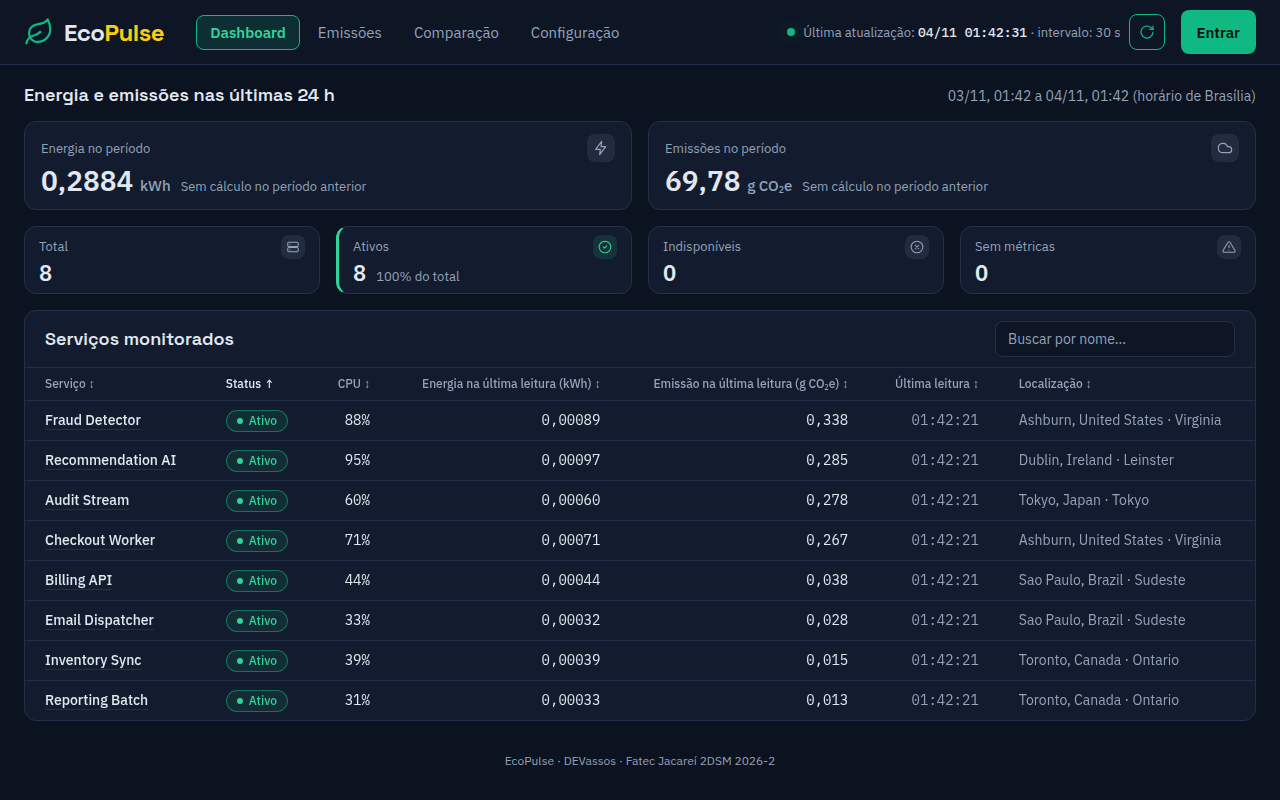
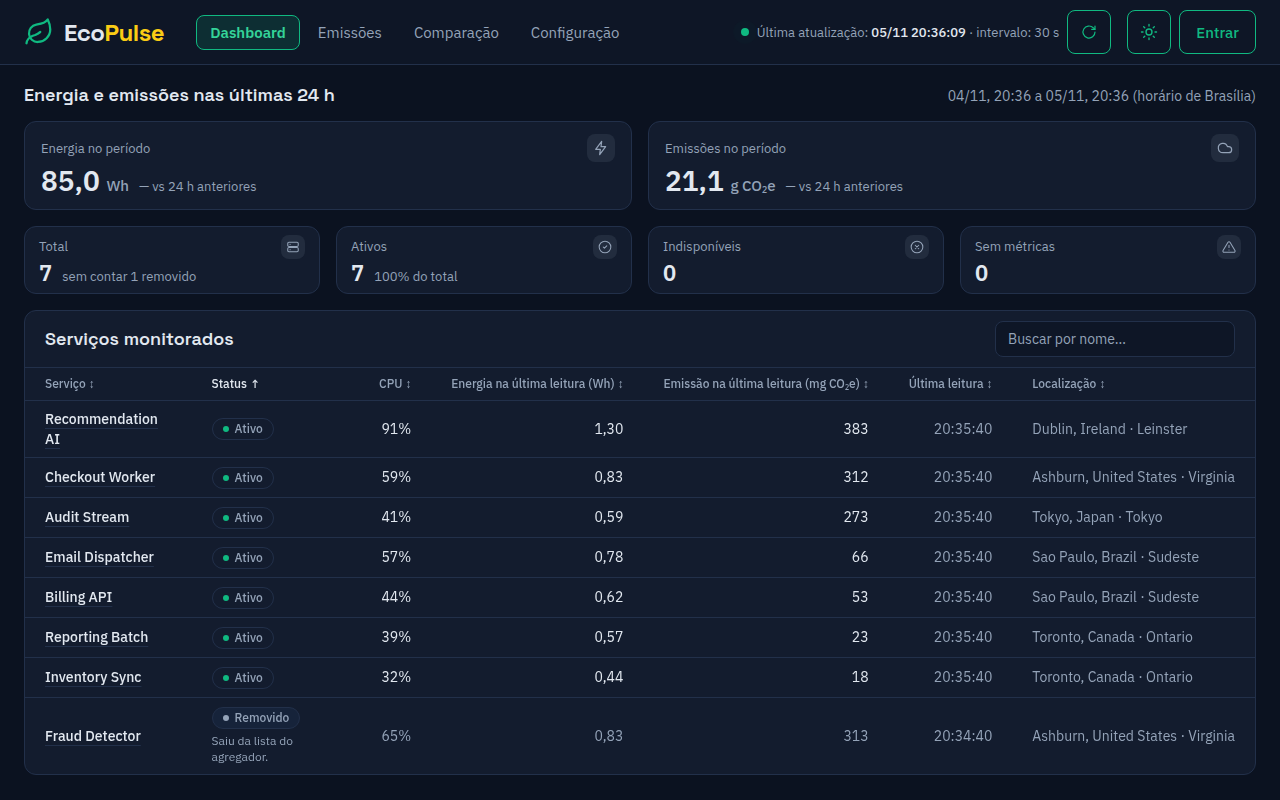
docs(docs): refaz os prints com as telas finais da fila (#274) [RNF01]
Dashboard (tabela, cards e indicadores), Emissões, Comparação e celular, com o backend real em 05/11/2026, mostrando o estado depois das #259 a #274: unidade no cabeçalho, Ativo neutro, chip do pico e trechos sem coleta, seletor de período, cor por grandeza e o botão Menu. As legendas do README descrevem o que cada print mostra.

diff --git a/README.md b/README.md
@@ -52,19 +52,19 @@ O desenvolvimento acontece na branch `develop`; cada funcionalidade entra nesta 
 
   ![Tabela de serviços monitorados com o backend real](docs/img/sprint-2-dashboard-backend-real.png)
 
-  _Tabela ligada ao backend real (`docker compose`) em 04/11/2026, numa janela de 1366×657: ordem inicial por gravidade, status logo depois do nome, energia e emissão da última leitura com casas fixas (kWh com 5, g com 3) e 6 das 8 linhas visíveis sem rolar, abaixo dos indicadores do período e dos cards de estado (#203, #259)._
+  _Tabela ligada ao backend real (`docker compose`, banco novo) em 05/11/2026, numa janela de 1366×657: ordem inicial por gravidade, status logo depois do nome com o selo Ativo neutro (#272), energia (Wh) e emissão (mg CO₂e) da última leitura numa unidade só por coluna, indicada no cabeçalho (#271), e seis linhas visíveis sem rolar (#259)._
 
 - **RF08, RF09 — Cards de estado dos serviços (#21, PR #202):** entre os indicadores do período e a tabela, cards compactos com o total de serviços monitorados e quantos estão ativos, indisponíveis e sem métricas, contados na mesma resposta de `GET /api/services` e atualizados no mesmo ciclo. Os removidos ficam fora do total, e a cor só aparece quando há serviços naquele estado. Sem dados, os cards não aparecem; numa falha, mantêm o último dado, apagado, com "Desatualizado desde …".
 
   ![Cards de estado entre os indicadores do período e a tabela de serviços](docs/img/sprint-2-kpis.png)
 
-  _Dashboard com o backend real (`docker compose`) em 04/11/2026: os 8 serviços ativos, e Indisponíveis e Sem métricas zerados, sem cor, nos cards compactos abaixo dos indicadores do período (#259)._
+  _Dashboard com o backend real (`docker compose`, banco novo) em 05/11/2026: 7 serviços ativos, sem contar 1 removido, e Indisponíveis e Sem métricas zerados, nos cards compactos abaixo dos indicadores do período (#259). Nenhum card tem cor: Ativos é estado saudável e fica neutro, e os outros dois só ganham cor com contagem acima de zero (#272)._
 
 - **RF08 — Indicadores agregados e comparação por período (#175, PR #215):** no topo do dashboard, logo abaixo do cabeçalho (#259), a tela mostra a energia e o CO₂e das últimas 24 h, na unidade que o valor pede (Wh ou kWh, mg ou g), com o período em horário de Brasília, e a variação contra as 24 h anteriores: ▲ em laranja quando subiu, ▼ em verde quando caiu e ±0% em cinza (#271). Sem cálculo no período, o valor é "—", nunca zero; sem base para a variação, a nota é "—" e o motivo fica no tooltip. A API usa `GET /api/services/summary?from=&to=`, documentada em [docs/api.md](docs/api.md).
 
   ![Indicadores agregados com comparação às 24 h anteriores](docs/img/sprint-2-indicadores-agregados.png)
 
-  _Dashboard com o backend real (`docker compose`) em 04/11/2026, 1h42: 0,2884 kWh e 69,78 g CO₂e nas últimas 24 h, com o banco coletando havia cerca de 4 h. Não há cálculo nas 24 h anteriores, então os cards dizem "Sem cálculo no período anterior" em vez de uma variação. Ícones de linha nos dois cards (#258); impacto no topo (#259)._
+  _Dashboard com o backend real (`docker compose`) em 05/11/2026, 20h36, com o banco coletando havia cerca de 15 min: 85,7 Wh e 21,3 g CO₂e nas últimas 24 h, na unidade que o valor pede (#271). Não há cálculo nas 24 h anteriores, então a variação aparece como "—", com o motivo no tooltip._
 
 - **RNF02 — Indicador de última atualização (#89):** selo no cabeçalho com o horário da última busca bem-sucedida e um ponto verde pulsando enquanto os dados estão em dia; se uma busca falha, ele fica laranja e passa a dizer "Desatualizado desde …", sem apagar os dados da tela.
 
@@ -100,7 +100,7 @@ O desenvolvimento acontece na branch `develop`; cada funcionalidade entra nesta 
 
   ![Comparação de quatro serviços com o backend real](docs/img/sprint-2-comparacao.png)
 
-  _Quatro serviços comparados com o backend real (`docker compose`) no dia 22/10/2026: Recommendation AI gastou mais energia (0,7758 kWh), mas Fraud Detector emitiu mais CO₂e (268,97 g), porque a região dele tem intensidade de carbono maior; Inventory Sync teve o menor CO₂e (15,06 g)._
+  _Quatro serviços comparados com o backend real (`docker compose`) no dia 04/11/2026, escolhido no seletor de período (#273): Recommendation AI gastou mais energia (294 Wh), mas Fraud Detector emitiu mais CO₂e (103 g), porque a região dele tem intensidade de carbono maior; Inventory Sync teve o menor CO₂e (6 g). Energia em ciano e CO₂e em verde, com só o maior CO₂e em laranja (#274)._
 
 - **RNF05, DW07 — Execução com Docker (#91, #113, #81):** backend, frontend (nginx) e PostgreSQL sobem juntos por `docker compose up --build`, com volume persistente para o banco e todas as variáveis documentadas em [.env.example](.env.example) (#82). Passo a passo no [README](#8-como-executar).
 
@@ -110,7 +110,7 @@ O desenvolvimento acontece na branch `develop`; cada funcionalidade entra nesta 
 
   ![Dashboard no celular com a emissão sob o nome de cada serviço](docs/img/sprint-3-dashboard-celular.png)
 
-  _Dashboard com o backend real (`docker compose`) em 04/11/2026, numa tela de 390 px: cada serviço mostra a emissão da última leitura sob o nome (Fraud Detector, 0,449 g CO₂e), e a borda direita da tabela indica as colunas que faltam._
+  _Dashboard com o backend real (`docker compose`) em 05/11/2026, numa tela de 390 px: o botão **Menu** no lugar da faixa do menu (#274) e, em cada serviço, a emissão da última leitura sob o nome (Recommendation AI, 383 mg CO₂e); a borda direita da tabela indica as colunas que faltam (#263)._
 
 - **RNF01 — Fundo azul, verde nos destaques e logo pulsante (#180, PR #184):** a base da paleta voltou ao azul-escuro e o verde ficou só em ações e destaques (botão vazado nas ações secundárias, item ativo do menu, neon no que pede atenção), em resposta ao feedback da Sprint Review 1. O logo pulsa uma vez a cada atualização bem-sucedida dos dados, como sinal de "ao vivo", e fica parado em falha ou com "reduzir movimento". Regras e contrastes em [docs/identidade-visual.md](docs/identidade-visual.md).
 
